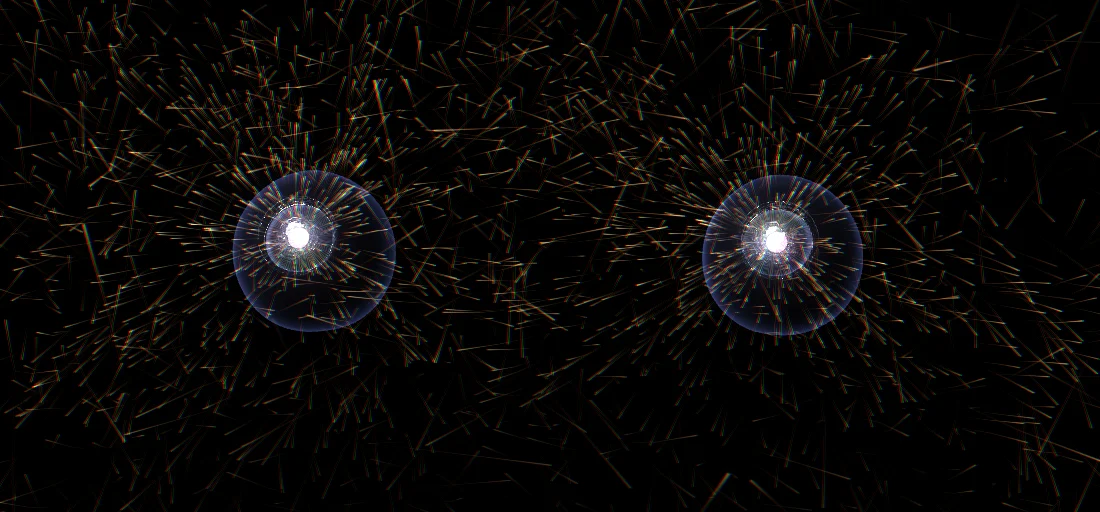
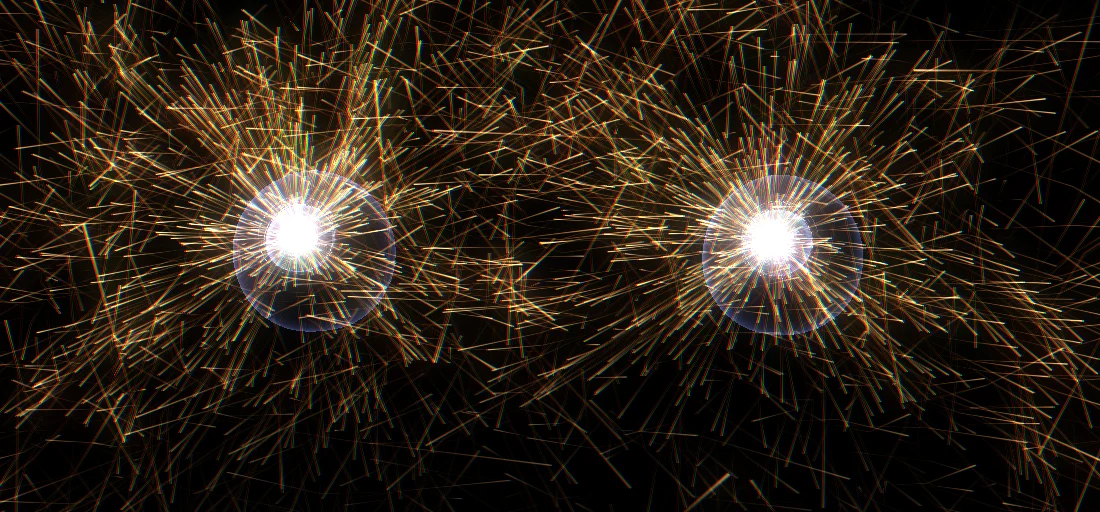
art: bonfire glow (bloom), brighter embers; scribbles show between the words on phones
The critic's last two rounds: a real bloom pass so the eyes flare and the embers glow (7.5/10, ready
to show); on phones each line of words carries its own dark backing instead of a full-width plate, and
left-side sections no longer shrink and slide right (justify-self now applies outside grids).

diff --git a/src/stage/eyes.js b/src/stage/eyes.js
@@ -100,6 +100,25 @@ void main(){
   o = vec4(g, max(g.r, max(g.g, g.b)));
 }`;
 
+// the glow: the frame is drawn off screen, its bright parts blurred at a quarter size, and the blur laid back over it
+const QUAD_VS = `#version 300 es
+in vec2 aP; out vec2 vUv;
+void main(){ vUv = aP*.5 + .5; gl_Position = vec4(aP, 0., 1.); }`;
+const BRIGHT_FS = `#version 300 es
+precision highp float; in vec2 vUv; uniform sampler2D uTex; out vec4 o;
+void main(){ vec3 c = texture(uTex, vUv).rgb; float l = max(c.r, max(c.g, c.b)); o = vec4(c*smoothstep(.12, .7, l), 1.); }`;
+const BLUR_FS = `#version 300 es
+precision highp float; in vec2 vUv; uniform sampler2D uTex; uniform vec2 uDir; out vec4 o;
+void main(){
+  vec3 c = texture(uTex, vUv).rgb*.227027;
+  c += (texture(uTex, vUv + uDir*1.3846).rgb + texture(uTex, vUv - uDir*1.3846).rgb)*.316216;
+  c += (texture(uTex, vUv + uDir*3.2308).rgb + texture(uTex, vUv - uDir*3.2308).rgb)*.070270;
+  o = vec4(c, 1.);
+}`;
+const COMPOSE_FS = `#version 300 es
+precision highp float; in vec2 vUv; uniform sampler2D uBase, uGlow; uniform float uK; out vec4 o;
+void main(){ vec4 b = texture(uBase, vUv); vec3 c = b.rgb + texture(uGlow, vUv).rgb*uK; o = vec4(c, max(b.a, max(c.r, max(c.g, c.b)))); }`;
+
 const seeded = s => () => { s |= 0; s = (s + 0x6D2B79F5) | 0; let t = Math.imul(s ^ (s >>> 15), 1 | s); t = (t + Math.imul(t ^ (t >>> 7), 61 | t)) ^ t; return ((t ^ (t >>> 14)) >>> 0) / 4294967296; };
 
 // the turn that brings +z onto direction d: yaw about y, then pitch (column-major)
@@ -124,6 +143,24 @@ export function createEyes(canvas, mesh, json, { preserve = false, lite = false,
   gl.bindBuffer(gl.ELEMENT_ARRAY_BUFFER, gl.createBuffer()); gl.bufferData(gl.ELEMENT_ARRAY_BUFFER, mesh.index, gl.STATIC_DRAW);
 
   const quad = new Float32Array([-1, -1, 1, -1, -1, 1, 1, 1]);
+  const bright = program(gl, QUAD_VS, BRIGHT_FS), blur = program(gl, QUAD_VS, BLUR_FS), compose = program(gl, QUAD_VS, COMPOSE_FS);
+  if (!bright || !blur || !compose) return null;
+  const qvao = gl.createVertexArray(); gl.bindVertexArray(qvao);
+  { gl.bindBuffer(gl.ARRAY_BUFFER, gl.createBuffer()); gl.bufferData(gl.ARRAY_BUFFER, new Float32Array([-1, -1, 1, -1, -1, 1, 1, 1]), gl.STATIC_DRAW); const l = bright.a('aP'); gl.enableVertexAttribArray(l); gl.vertexAttribPointer(l, 2, gl.FLOAT, false, 0, 0); }
+  // targets: the full frame (with depth) and two quarter-size buffers for the blur; remade when the size changes
+  const tex = (w, h) => { const t = gl.createTexture(); gl.bindTexture(gl.TEXTURE_2D, t); gl.texImage2D(gl.TEXTURE_2D, 0, gl.RGBA8, w, h, 0, gl.RGBA, gl.UNSIGNED_BYTE, null); gl.texParameteri(gl.TEXTURE_2D, gl.TEXTURE_MIN_FILTER, gl.LINEAR); gl.texParameteri(gl.TEXTURE_2D, gl.TEXTURE_MAG_FILTER, gl.LINEAR); gl.texParameteri(gl.TEXTURE_2D, gl.TEXTURE_WRAP_S, gl.CLAMP_TO_EDGE); gl.texParameteri(gl.TEXTURE_2D, gl.TEXTURE_WRAP_T, gl.CLAMP_TO_EDGE); return t; };
+  const fbo = (t, depth) => { const f = gl.createFramebuffer(); gl.bindFramebuffer(gl.FRAMEBUFFER, f); gl.framebufferTexture2D(gl.FRAMEBUFFER, gl.COLOR_ATTACHMENT0, gl.TEXTURE_2D, t, 0); if (depth) gl.framebufferRenderbuffer(gl.FRAMEBUFFER, gl.DEPTH_ATTACHMENT, gl.RENDERBUFFER, depth); gl.bindFramebuffer(gl.FRAMEBUFFER, null); return f; };
+  let post = null;
+  const makePost = (W, H) => {
+    if (post) { for (const t of post.tex) gl.deleteTexture(t); for (const f of post.fb) gl.deleteFramebuffer(f); gl.deleteRenderbuffer(post.depth); }
+    const qw = Math.max(1, W >> 2), qh = Math.max(1, H >> 2), depth = gl.createRenderbuffer();
+    gl.bindRenderbuffer(gl.RENDERBUFFER, depth); gl.renderbufferStorage(gl.RENDERBUFFER, gl.DEPTH_COMPONENT24, W, H);
+    const t = [tex(W, H), tex(qw, qh), tex(qw, qh)];
+    post = { W, H, qw, qh, depth, tex: t, fb: [fbo(t[0], depth), fbo(t[1]), fbo(t[2])] };
+  };
+  const pass = (pr, target, w, h, setup) => { gl.bindFramebuffer(gl.FRAMEBUFFER, target); gl.viewport(0, 0, w, h); gl.useProgram(pr.p); setup(pr.u); gl.drawArrays(gl.TRIANGLE_STRIP, 0, 4); };
+  const bindTex = (unit, t, loc) => { gl.activeTexture(gl.TEXTURE0 + unit); gl.bindTexture(gl.TEXTURE_2D, t); gl.uniform1i(loc, unit); };
+
   const hvao = gl.createVertexArray(); gl.bindVertexArray(hvao);
   { const cl = halo.a('aCorner'); gl.bindBuffer(gl.ARRAY_BUFFER, gl.createBuffer()); gl.bufferData(gl.ARRAY_BUFFER, quad, gl.STATIC_DRAW); gl.enableVertexAttribArray(cl); gl.vertexAttribPointer(cl, 2, gl.FLOAT, false, 0, 0); }
   gl.bindVertexArray(null);
@@ -144,11 +181,12 @@ export function createEyes(canvas, mesh, json, { preserve = false, lite = false,
       vw = r.width; vh = r.height; s = Math.min(dpr, Math.sqrt(7e6 / Math.max(1, vw * vh)));
       const W = Math.max(2, Math.round(vw * s)), H = Math.max(2, Math.round(vh * s));
       if (canvas.width !== W || canvas.height !== H) { canvas.width = W; canvas.height = H; }
+      if (!post || post.W !== W || post.H !== H) makePost(W, H);
       const b = box.getBoundingClientRect(), span = (Math.abs(C[0][0] - C[1][0]) + 2 * R[0] + 6) / 2;
       tanX = span / (lite || b.width < 700 ? 0.68 : 0.6) / CAMERA; tanY = tanX * b.height / Math.max(1, b.width);
       if (tanY * CAMERA < R[0] * 1.8) { tanY = R[0] * 1.8 / CAMERA; tanX = tanY * b.width / Math.max(1, b.height); }
     },
-    clear() { gl.viewport(0, 0, canvas.width, canvas.height); gl.clearColor(0, 0, 0, 0); gl.clear(gl.COLOR_BUFFER_BIT); },
+    clear() { gl.bindFramebuffer(gl.FRAMEBUFFER, null); gl.viewport(0, 0, canvas.width, canvas.height); gl.clearColor(0, 0, 0, 0); gl.clear(gl.COLOR_BUFFER_BIT); },
     // fixed.age freezes the moment (review, reduced motion)
     draw(t, fixed = {}) {
       const time = fixed.age != null ? fixed.age : t;
@@ -169,6 +207,7 @@ export function createEyes(canvas, mesh, json, { preserve = false, lite = false,
           simT = run(simT, time);
         }
       }
+      gl.bindFramebuffer(gl.FRAMEBUFFER, post.fb[0]);                                     // the frame is drawn off screen first
       gl.viewport(0, 0, W, H); gl.clearColor(0, 0, 0, 0); gl.clearDepth(1); gl.depthMask(true);
       gl.clear(gl.COLOR_BUFFER_BIT | gl.DEPTH_BUFFER_BIT);
 
@@ -185,7 +224,7 @@ export function createEyes(canvas, mesh, json, { preserve = false, lite = false,
       if (!NO_SPARKS) {
         const sp = { u: sparks.uniforms };
         gl.useProgram(sparks.program); cam(sp);
-        gl.uniform1f(sp.u.uGain, lite ? 1.3 : 1.1); gl.uniform1f(sp.u.uFade, fade);
+        gl.uniform1f(sp.u.uGain, lite ? 1.9 : 1.6); gl.uniform1f(sp.u.uFade, fade);
         gl.uniform4f(sp.u.uText, wr.left * s, (vh - wr.bottom) * s, wr.right * s, (vh - wr.top) * s);
         gl.uniform4f(sp.u.uNav, nr.left * s, (vh - nr.bottom) * s, nr.right * s, (vh - nr.top) * s);
         sparks.draw([W / 2, H / 2], Math.max(0.8, 1.0 * s));
@@ -197,6 +236,14 @@ export function createEyes(canvas, mesh, json, { preserve = false, lite = false,
       gl.uniform3fv(halo.u.uPupil0, pupils[0]); gl.uniform3fv(halo.u.uPupil1, pupils[1]); gl.uniform2f(halo.u.uRes, W / 2, H / 2);
       gl.uniform1f(halo.u.uSize, (R[0] * 2.6) * (b.width * s / 2) / (tanX * CAMERA)); gl.uniform1f(halo.u.uFade, 0.75 + 0.25 * fade);
       gl.drawArraysInstanced(gl.TRIANGLE_STRIP, 0, 4, 2);
+      // the glow: bright parts at a quarter size, blurred twice each way, laid back over the frame
+      gl.disable(gl.BLEND); gl.disable(gl.DEPTH_TEST); gl.bindVertexArray(qvao);
+      pass(bright, post.fb[1], post.qw, post.qh, u => bindTex(0, post.tex[0], u.uTex));
+      for (let i = 0; i < 2; i++) {
+        pass(blur, post.fb[2], post.qw, post.qh, u => { bindTex(0, post.tex[1], u.uTex); gl.uniform2f(u.uDir, (1 + i) / post.qw, 0); });
+        pass(blur, post.fb[1], post.qw, post.qh, u => { bindTex(0, post.tex[2], u.uTex); gl.uniform2f(u.uDir, 0, (1 + i) / post.qh); });
+      }
+      pass(compose, null, W, H, u => { bindTex(0, post.tex[0], u.uBase); bindTex(1, post.tex[1], u.uGlow); gl.uniform1f(u.uK, 1.25); });
       gl.bindVertexArray(null); gl.depthMask(true);
     },
   };

diff --git a/src/styles/global.css b/src/styles/global.css
@@ -84,9 +84,9 @@ a:focus-visible{outline:2px solid var(--red);outline-offset:3px}
   .about-l,.about-r{text-align:center}
   .heart-wrap{order:-1;width:min(78vw,340px)}
   .about-l h2,.about p,.facts{margin-inline:auto}
-  .about-l,.about-r,.stop{position:relative;z-index:2;background:var(--bg)}
+  .about-l,.about-r,.stop{position:relative;z-index:2}
   .stop{display:block;margin-block:16vh;padding-block:20px;text-align:center}
-  .stop.left>div{text-align:center}
+  .stop.left>div{text-align:center;justify-self:auto}   /* browsers now honour justify-self outside grids too: without this the block shrinks and slides right */
   .stop p,.stop.left p{margin-inline:auto}
   .stop::before{display:none}
   .marker b{display:none}
@@ -201,6 +201,11 @@ html[data-art-page="hands"]::before{opacity:.22}
 
 /* the words over the scribbles: a soft dark halo keeps them readable; on phones the plates behind them feather out */
 .stop h2,.stop p,.about-l h2,.about-l p,.about-r,.mail{text-shadow:0 0 14px #000,0 0 28px #000}
-@media (max-width:820px){.about-l,.about-r,.stop{box-shadow:0 0 26px 16px var(--bg)}}
+/* on phones the line runs behind the words: each line of words carries its own dark backing, hugging the text,
+   so the red line and the scribbles show everywhere else */
+@media (max-width:820px){
+  .stop>div>*,.about-l>*,.about-r>*,.about-more>p{display:table;margin-inline:auto;background:var(--bg);box-shadow:0 0 14px 6px var(--bg)}
+  .stop{padding-block:12px}
+}
 /* the credits rise out of the dark instead of cutting the scribbles off with a hard edge */
 .credits{background:linear-gradient(to bottom,transparent,var(--bg) 220px)}

diff --git a/src/stage/sparks.js b/src/stage/sparks.js
@@ -62,7 +62,7 @@ void main(){
     vec3 f = curl(p*.026 + vec3(0., 0., uTime*.08))*85.*wild + vec3(0., 8., 0.);   // whirls a few sparks across, so short streaks bend
     v = mix(v, f, (1. - exp(-uDt*2.8))*loose);
     p += v*uDt;
-    float k1 = 1. - exp(-uDt/.05);   // short embers                                         // the trail follows the head a little late, so a turning spark draws a curve
+    float k1 = 1. - exp(-uDt/.1);   // short embers, long enough that a turn shows                                         // the trail follows the head a little late, so a turning spark draws a curve
     t1 = mix(t1, p, k1); t2 = mix(t2, t1, k1);
   }
   oPos = p; oVel = v; oLife = vec2(age, life); oSeed = aSeed; oT1 = t1; oT2 = t2;
